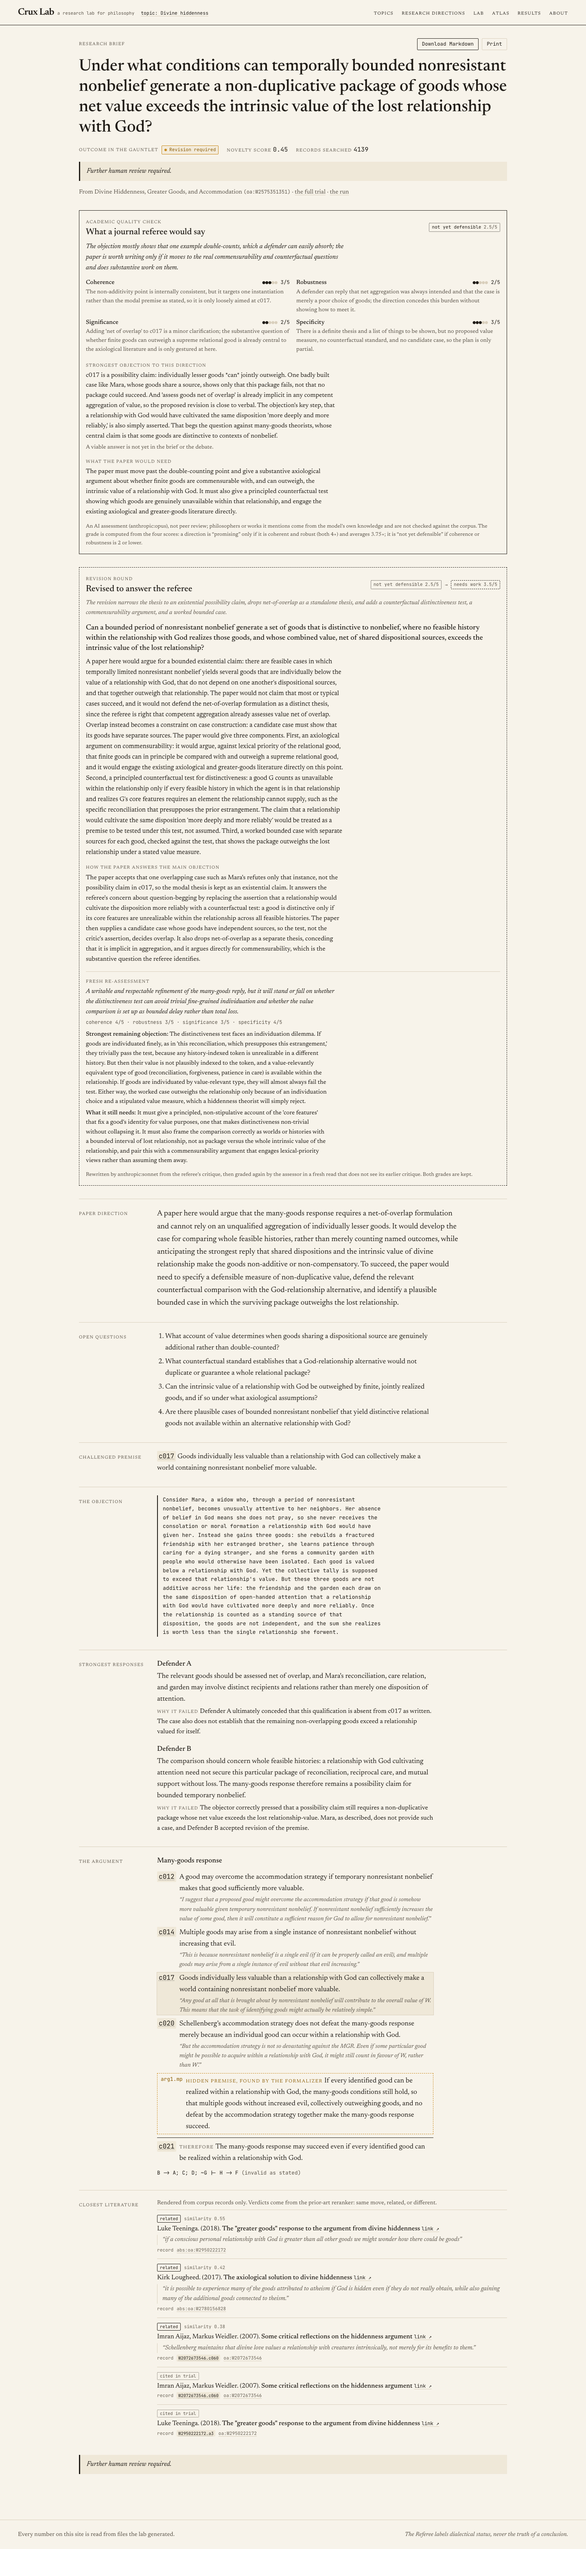
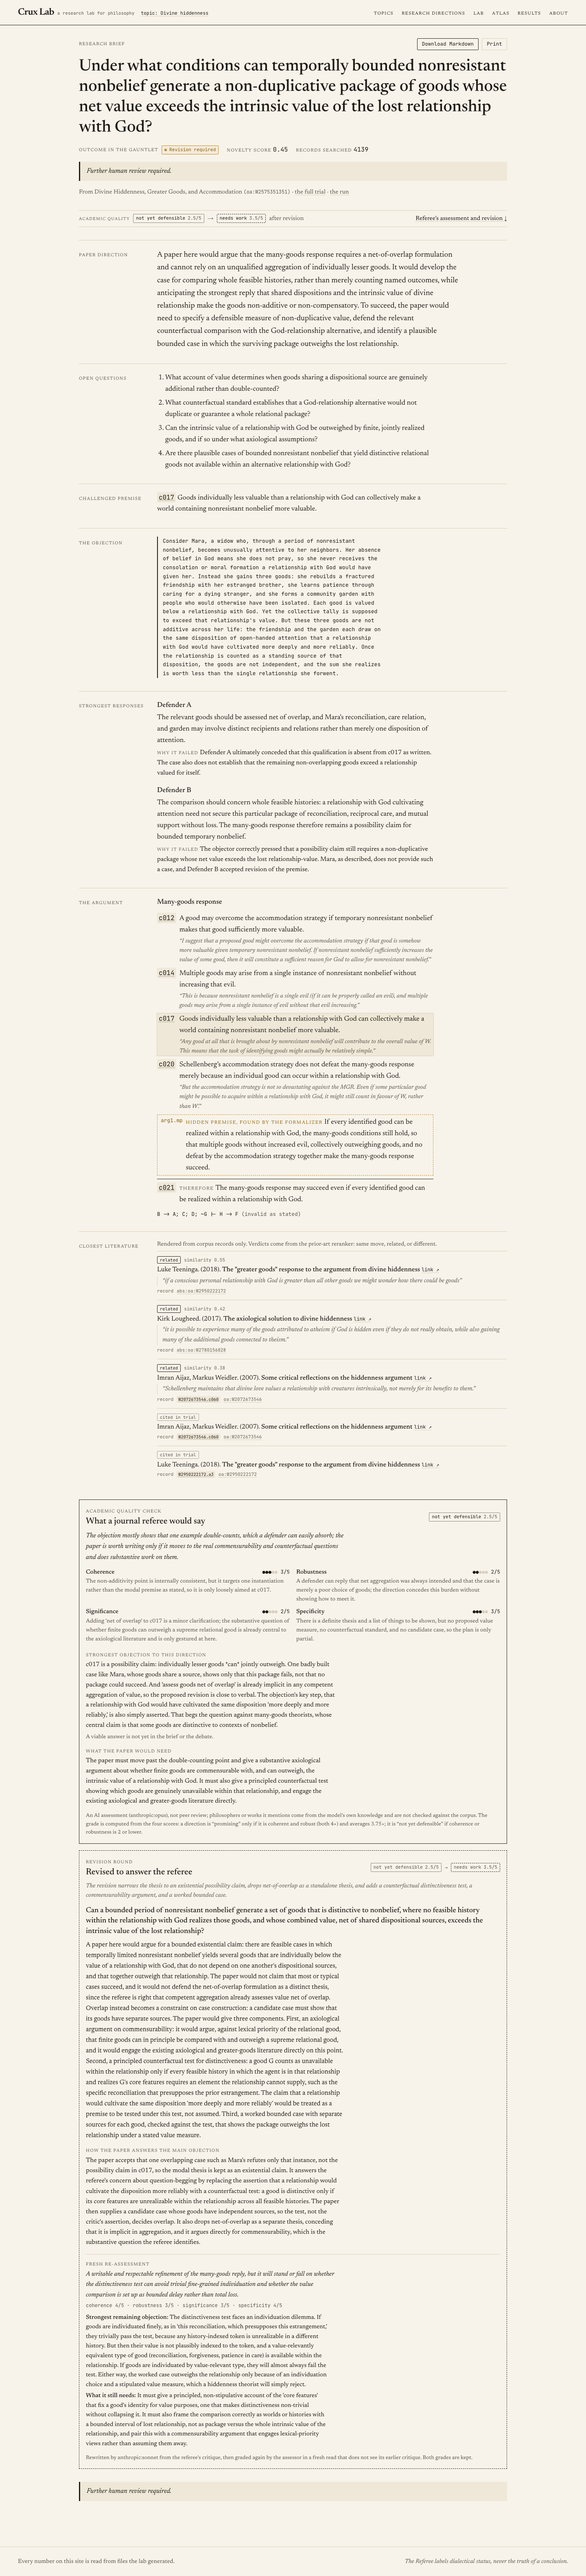
Brief page: quality check and revision moved to the bottom; compact grade strip with a link at the top

diff --git a/web/src/pages/Brief.tsx b/web/src/pages/Brief.tsx
@@ -1,4 +1,4 @@
-import { QualityPanel, RevisionPanel } from "../components/Quality";
+import { QualityPanel, QualityStrip, RevisionPanel } from "../components/Quality";
 import { useState } from "react";
 import { Link, useParams } from "react-router";
 import { VerdictTag } from "../components/NoveltyPanel";
@@ -149,14 +149,7 @@ function BriefView({ b, runId }: { b: Brief; runId: string | null }) {
       </header>
 
       {b.assessment ? (
-        <div className="mt-6">
-          <QualityPanel a={b.assessment} />
-        </div>
-      ) : null}
-      {b.revision ? (
-        <div className="mt-4">
-          <RevisionPanel r={b.revision} before={b.assessment} />
-        </div>
+        <QualityStrip a={b.assessment} after={b.revision?.assessment ?? null} />
       ) : null}
 
       <Marginal label="paper direction">
@@ -260,6 +253,13 @@ function BriefView({ b, runId }: { b: Brief; runId: string | null }) {
           <Empty>No corpus record came close enough to list.</Empty>
         )}
       </Marginal>
+
+      {b.assessment ? (
+        <div id="quality" className="mt-10 scroll-mt-6 space-y-4">
+          <QualityPanel a={b.assessment} />
+          {b.revision ? <RevisionPanel r={b.revision} before={b.assessment} /> : null}
+        </div>
+      ) : null}
 
       <Disclaimer text={b.disclaimer} />
     </article>

diff --git a/web/src/components/Quality.tsx b/web/src/components/Quality.tsx
@@ -144,3 +144,23 @@ export function RevisionPanel({ r, before }: { r: Revision; before?: Assessment 
     </section>
   );
 }
+
+/** One line near the top of a brief: the grade (before → after revision) and a link to the full check below. */
+export function QualityStrip({ a, after }: { a: Assessment; after: Assessment | null }) {
+  return (
+    <p className="no-print mt-4 flex flex-wrap items-center gap-2 border-y border-rule py-2 text-[0.92rem]">
+      <span className="smallcaps text-ink-soft">academic quality</span>
+      <GradeChip grade={a.grade} overall={a.overall} />
+      {after ? (
+        <>
+          <span aria-hidden className="text-ink-soft">→</span>
+          <GradeChip grade={after.grade} overall={after.overall} />
+          <span className="text-ink-soft">after revision</span>
+        </>
+      ) : null}
+      <a href="#quality" className="link ml-auto">
+        Referee’s assessment{after ? " and revision" : ""} ↓
+      </a>
+    </p>
+  );
+}
